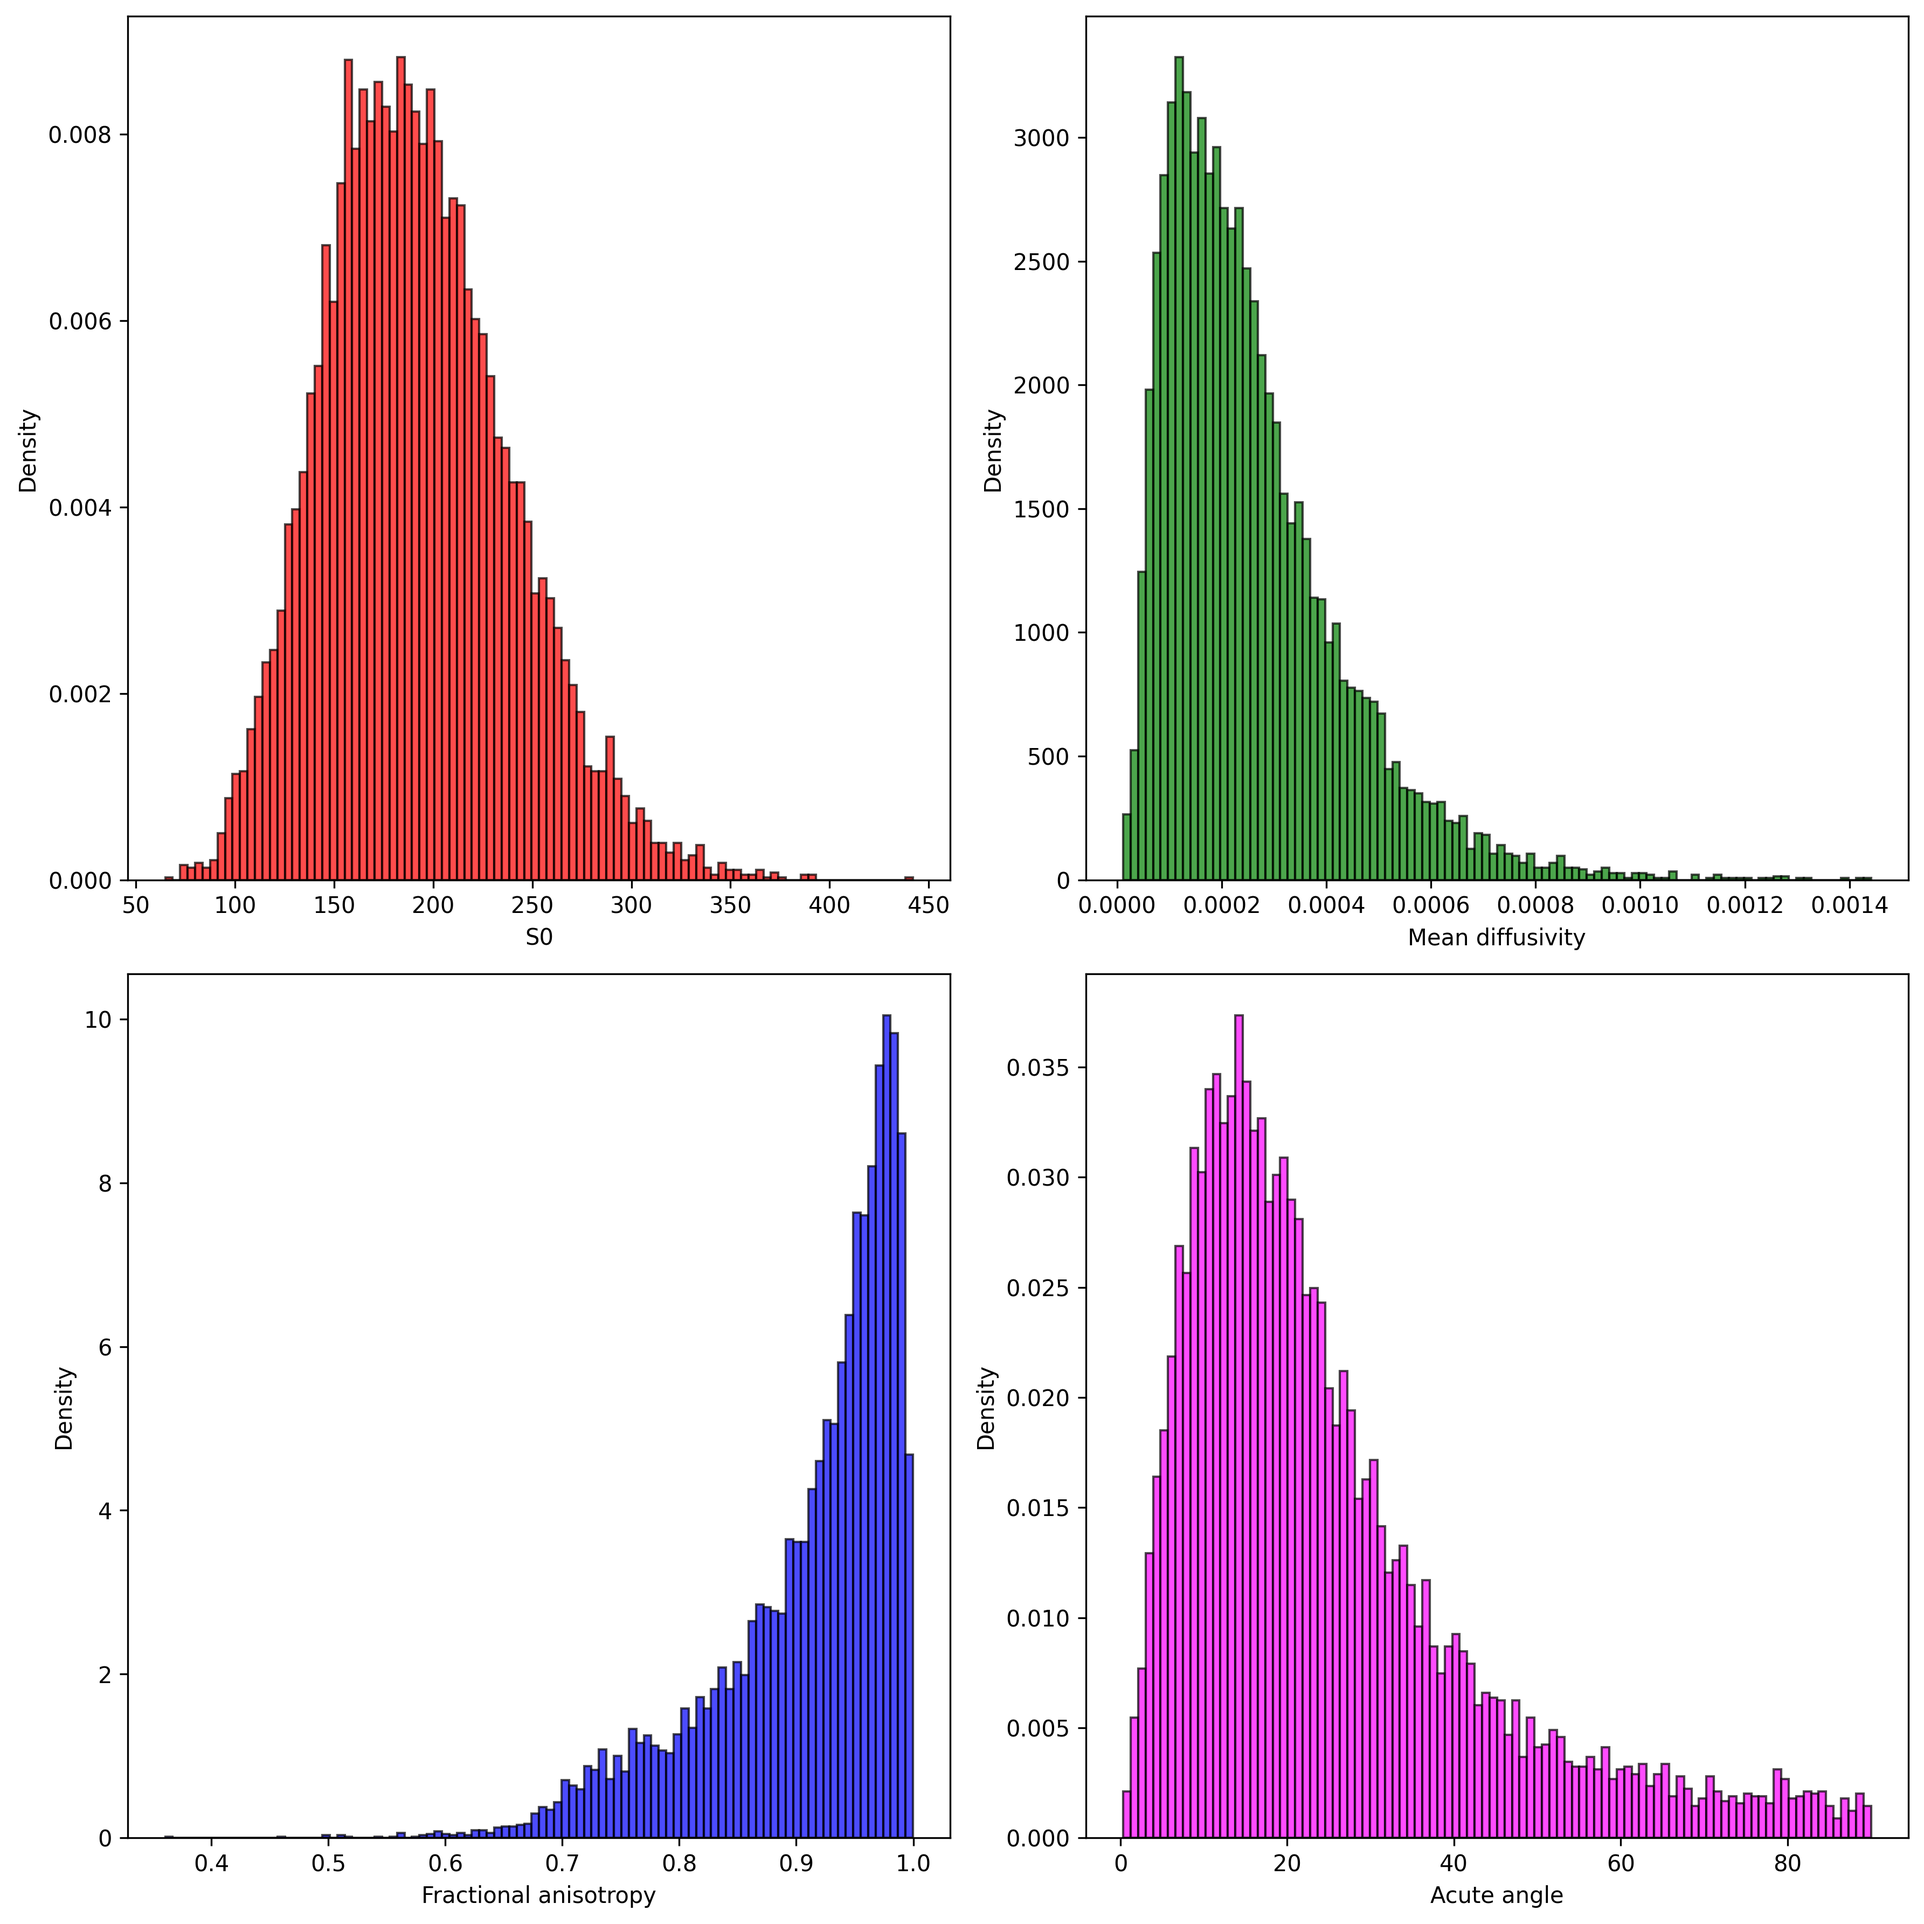
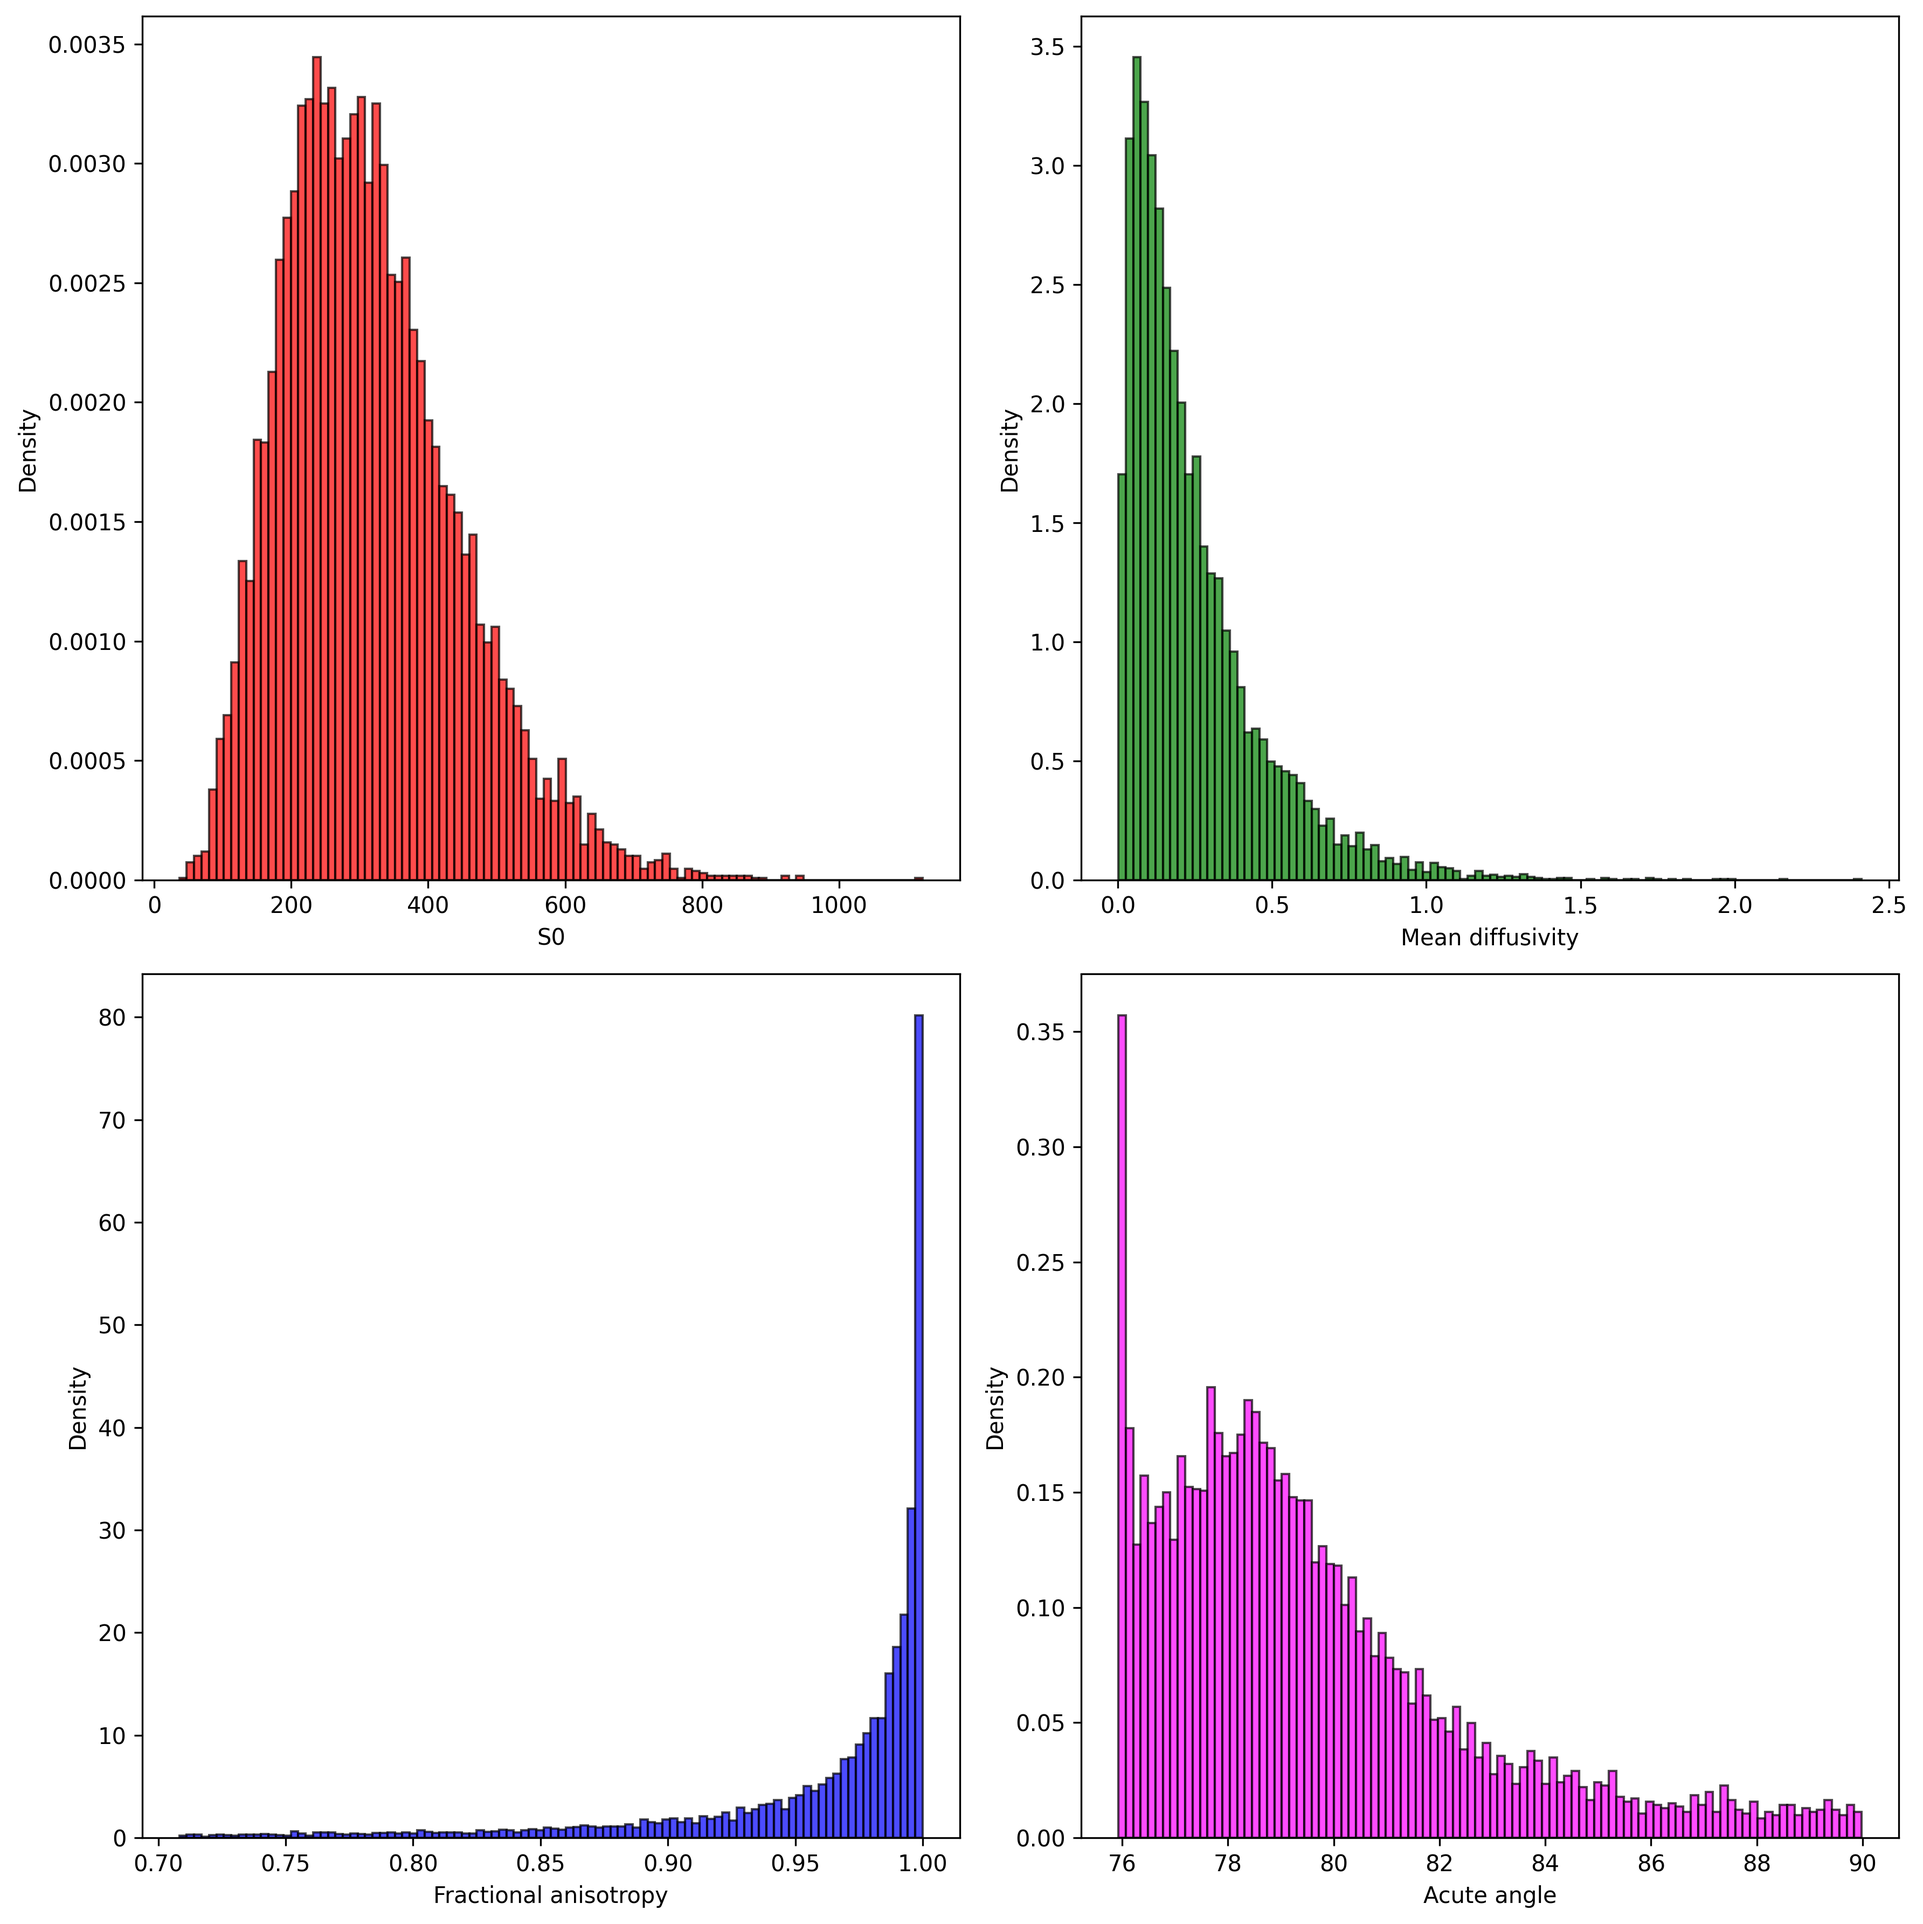
modified variational inference

diff --git a/dmri_project.py b/dmri_project.py
@@ -717,7 +717,7 @@ def variational_inference(max_iters=2000, K=10, learning_rate=1e-2):
         f_vals = log_lik + log_prior - log_q  # (K,)
 
         # Score functions nabla_theta log q(z^k)
-        scores = np.array([q.score(S0_s[k], D_s[k]) for k in range(K)])  # (K, 9)
+        scores = np.array([q.score(S0_s[k], D_s[k] / q.df.item()) for k in range(K)])
 
         # REINFORCE leave-one-out gradient estimator
         baselines = (np.sum(f_vals) - f_vals) / (K - 1)
@@ -842,7 +842,7 @@ def main():
     plot_results(S0_is, evals_is, evecs_is, evec_principal, weights=w_is, method="is")
 
     # Run Variational Inference and plot results
-    posterior_vi = variational_inference(force_recompute=False)
+    posterior_vi = variational_inference(force_recompute=True)
     S0_vi, evals_vi, evecs_vi = posterior_vi.rvs(size=n_samples)
     plot_results(S0_vi, evals_vi, evecs_vi, evec_principal, method="vi")
 
